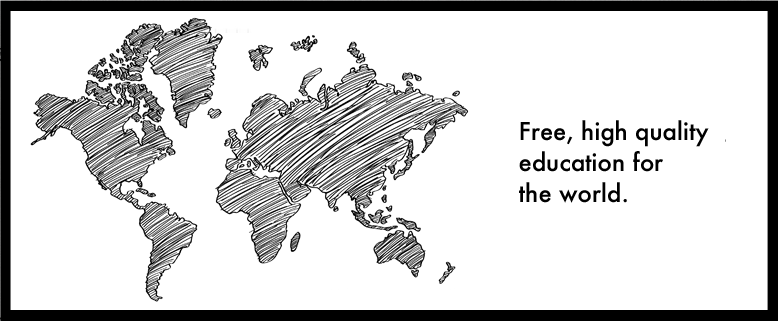
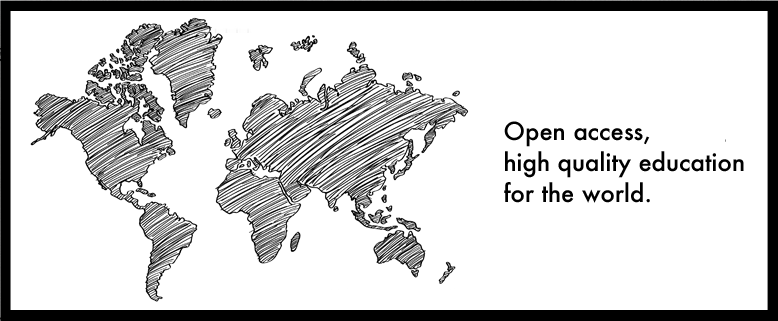
updating main picture text to change from free to open as the first word.

Changed region(s): [[0.6478, 0.3738, 0.9563, 0.6542]]

diff --git a/fle_site/templates/base.html b/fle_site/templates/base.html
@@ -69,23 +69,20 @@
     }
 
     .footer {
-        background-image: url("/static/images/purple.png");
-        background-repeat: repeat;
-        background-position: left top;
         width: 100%;
-        height: 100px;
-        position: absolute;
-        top: 1200px;
+        height: 10px;
+        position: relative;
+        top: 300%;
         left: 0;
-        bottom: 0;
+        bottom: 3px;
         min-width: 837px;
+        font-family: Futura, "Trebuchet MS", Arial, sans-serif;
+        color: #000;
+        font-size: 14px;
     }
 
     .footer-legal {
-        margin-top: 70px;
-        font-family: Futura, "Trebuchet MS", Arial, sans-serif;
-        color: #ffffff;
-        font-size: 14px;
+       
 
     }
 
@@ -152,7 +149,7 @@
         margin-left: auto;
         margin-right: auto;
         margin-top: 150px;
-        margin-bottom: 100px;
+        margin-bottom: 200px;
     }
 
     .content-container-small {
@@ -263,7 +260,7 @@
 	{% block body %}{% endblock body %}
 
     <div class="footer">
-        <div class="top-container footer-legal">Foundation for Learning Equality All Rights Reserved 2013</div>
+        <div class="top-container footer-legal">Foundation for Learning Equality 2013 All Rights Reserved</div>
     </div>
 
 </body>
